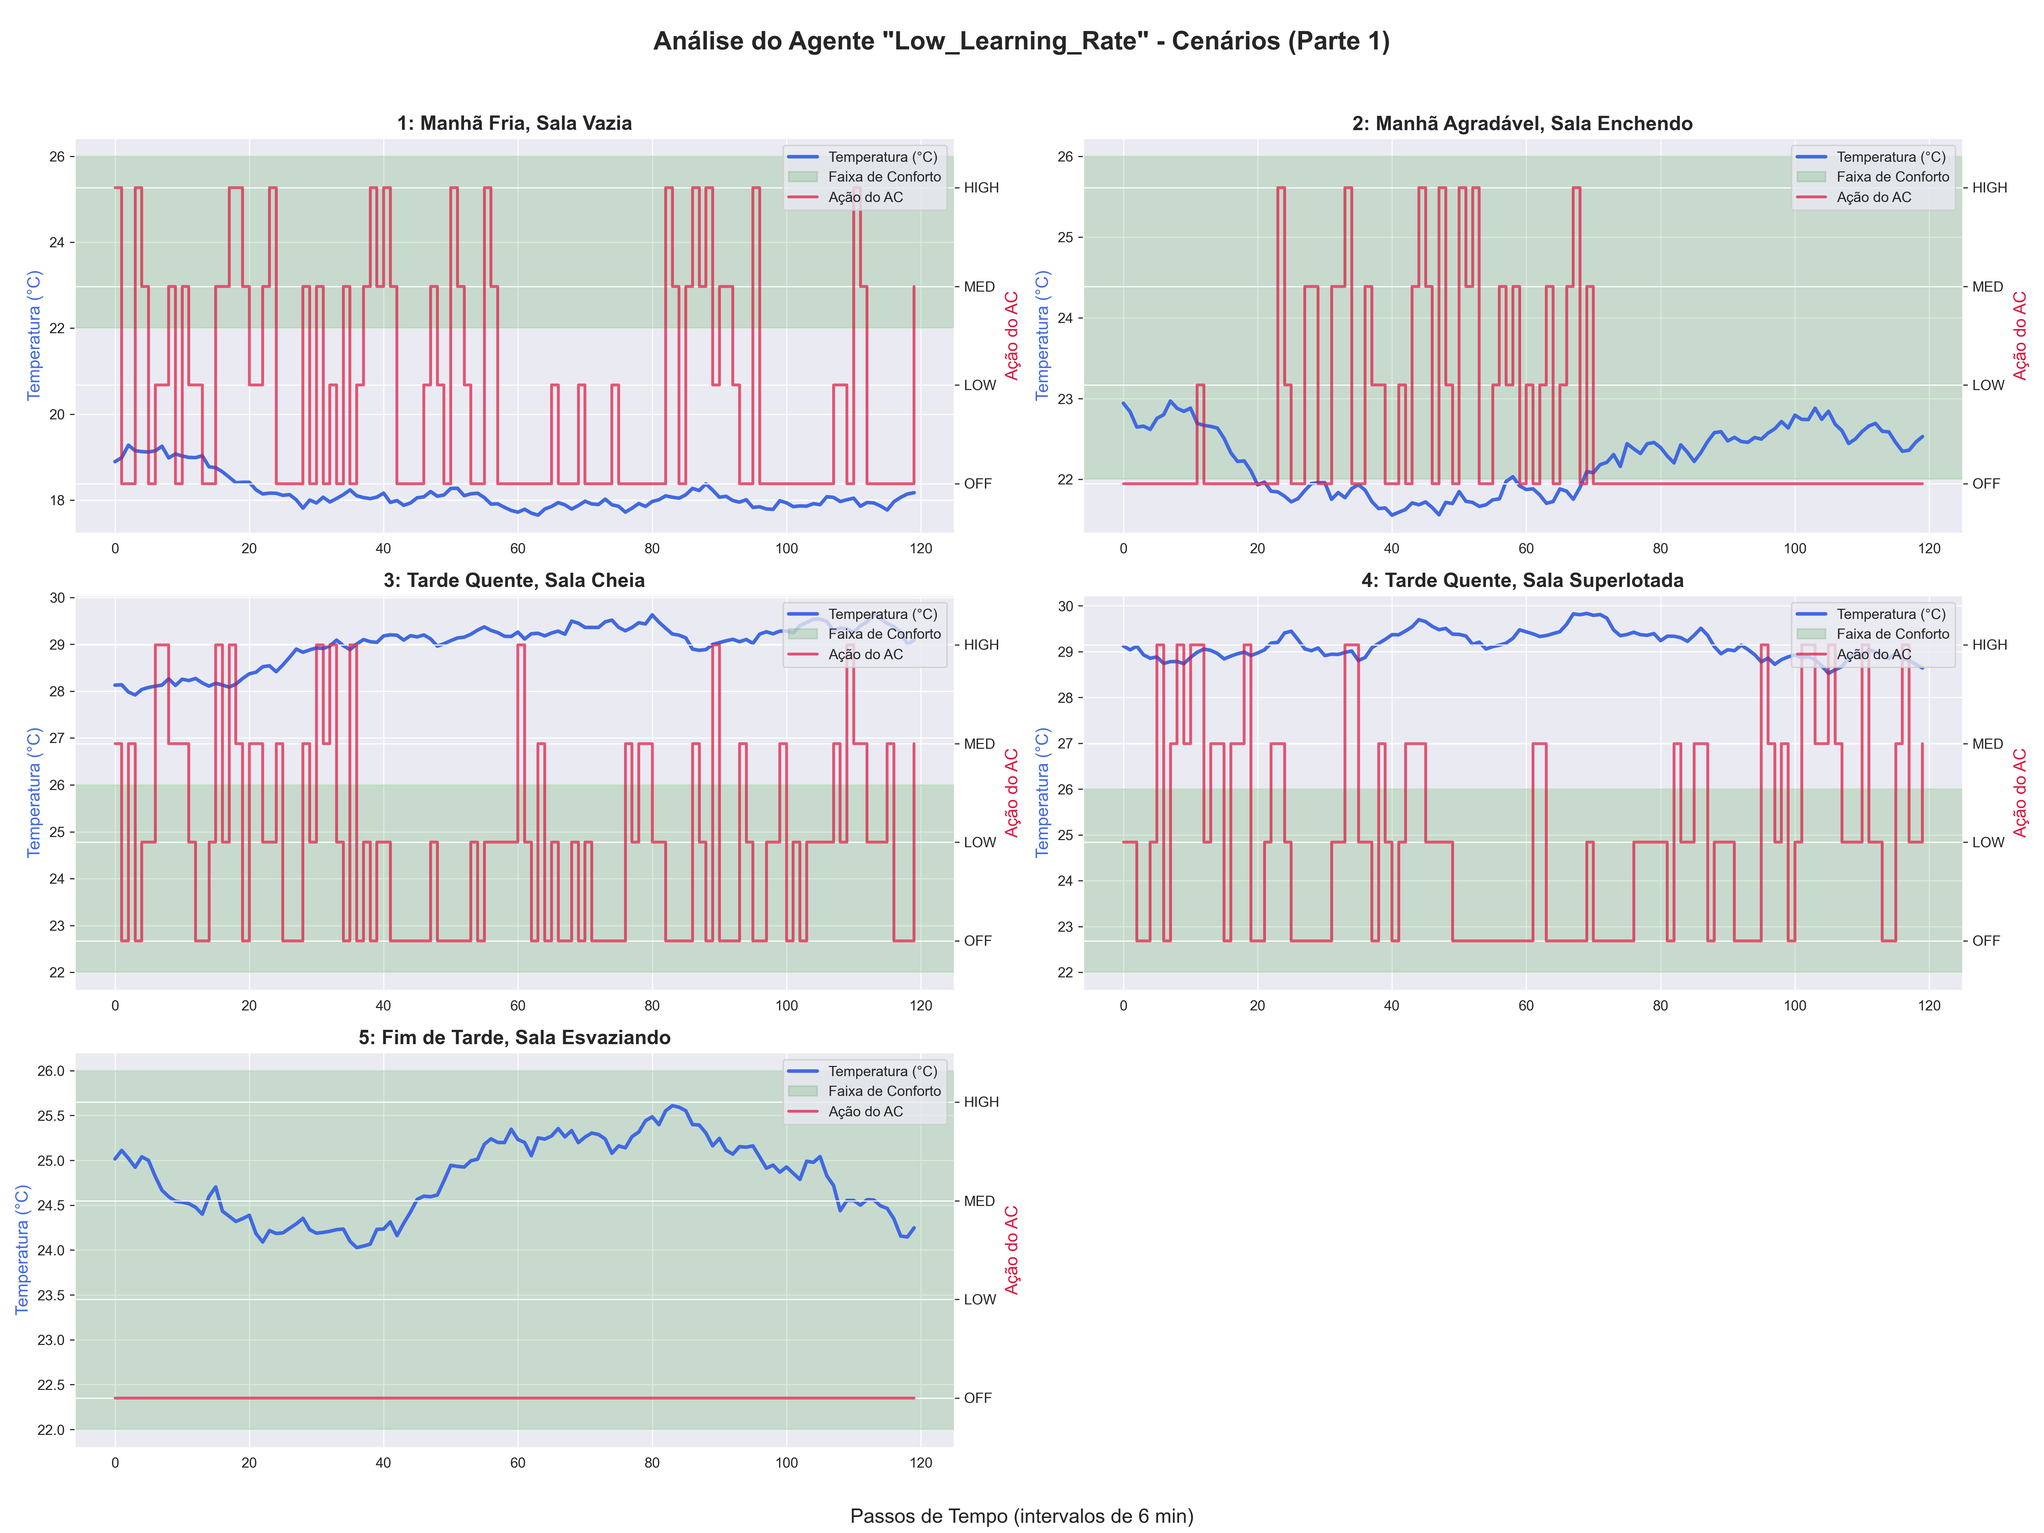
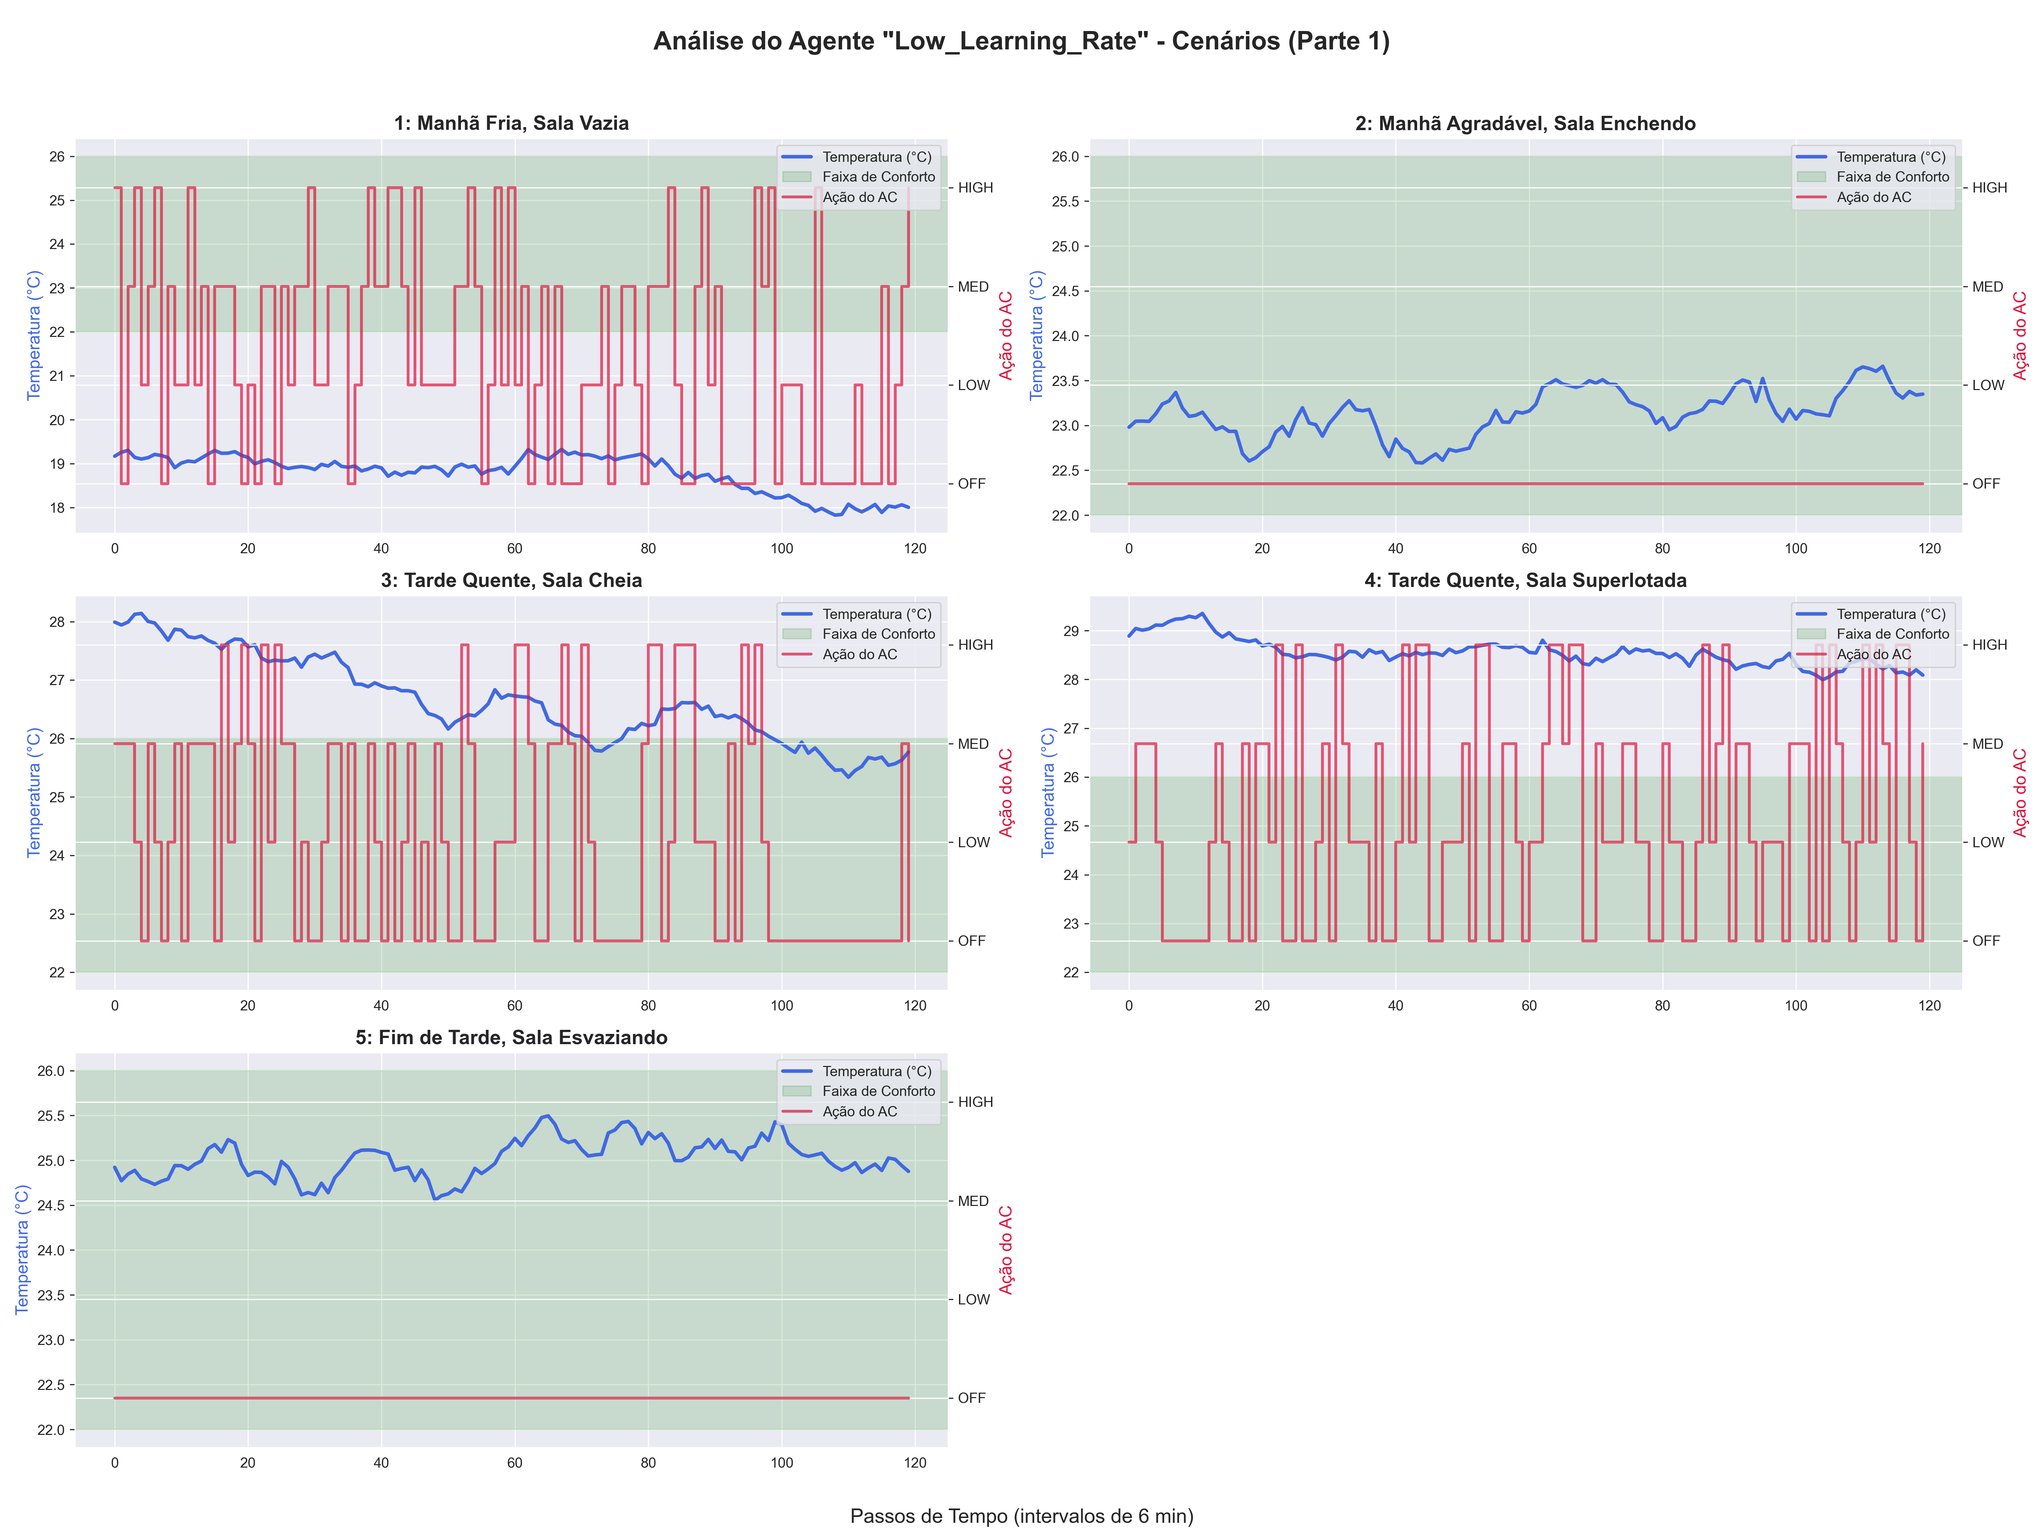
Adicionado graficos tabelas variaveis utilizados

diff --git a/results_20251002_174127/README.md b/results_20251002_174127/README.md
@@ -61,16 +61,16 @@ A imagem abaixo compara o desempenho final de todos os agentes durante a fase de
 
 | Cenário                                         |   Temp. Média (°C) |   Tempo em Conforto (%) |   Energia Total (kW) |   Recompensa Média | Ação Predominante   |
 |:------------------------------------------------|-------------------:|------------------------:|---------------------:|-------------------:|:--------------------|
-| 1: Manhã Fria, Sala Vazia                       |              18.16 |                    0    |                113.5 |              -9.78 | OFF                 |
-| 2: Manhã Agradável, Sala Enchendo               |              22.12 |                   71.67 |                223   |              -2.27 | OFF                 |
-| 3: Tarde Quente, Sala Cheia                     |              27.13 |                    0    |                318.5 |              -6.83 | MED                 |
-| 4: Tarde Quente, Sala Superlotada               |              29.28 |                    0    |                196   |              -7.11 | LOW                 |
-| 5: Fim de Tarde, Sala Esvaziando                |              25.16 |                  100    |                157.5 |              -0.26 | OFF                 |
-| 6: Noite, Sala Vazia                            |              24.5  |                  100    |                 30   |               0.62 | OFF                 |
-| 7: Tarde Agradável, Sala Vazia (Manutenção)     |              25.2  |                   77.5  |                137   |              -1.33 | OFF                 |
-| 8: Onda de Calor Extrema, Sala Cheia (Estresse) |              32.09 |                    0    |                  0   |             -15    | OFF                 |
-| 9: Fim de Expediente (Eficiência Energética)    |              25.18 |                  100    |                165.5 |              -0.24 | OFF                 |
-| 10: Inverno Hipotético (Caso de Borda/Inação)   |              11.49 |                    0    |                  0   |             -15    | OFF                 |
+| 1: Manhã Fria, Sala Vazia                       |              19.8  |                    0    |                283.5 |              -6.67 | MED                 |
+| 2: Manhã Agradável, Sala Enchendo               |              23.22 |                  100    |                 32   |               0.62 | OFF                 |
+| 3: Tarde Quente, Sala Cheia                     |              28.42 |                    0    |                302.5 |              -6.77 | MED                 |
+| 4: Tarde Quente, Sala Superlotada               |              28.83 |                    0    |                263.5 |              -6.64 | OFF                 |
+| 5: Fim de Tarde, Sala Esvaziando                |              24.42 |                  100    |                 55.5 |               0.47 | OFF                 |
+| 6: Noite, Sala Vazia                            |              22.94 |                   76.67 |                132   |              -1.23 | OFF                 |
+| 7: Tarde Agradável, Sala Vazia (Manutenção)     |              24.32 |                  100    |                 23   |               0.61 | OFF                 |
+| 8: Onda de Calor Extrema, Sala Cheia (Estresse) |              32.38 |                    0    |                  0   |             -15    | OFF                 |
+| 9: Fim de Expediente (Eficiência Energética)    |              26.39 |                   27.5  |                259.5 |              -4.98 | OFF                 |
+| 10: Inverno Hipotético (Caso de Borda/Inação)   |              12.43 |                    0    |                  0   |             -15    | OFF                 |
 
 ### 3. Gráficos de Comportamento em Cenários
 
@@ -128,16 +128,16 @@ A imagem abaixo compara o desempenho final de todos os agentes durante a fase de
 
 | Cenário                                         |   Temp. Média (°C) |   Tempo em Conforto (%) |   Energia Total (kW) |   Recompensa Média | Ação Predominante   |
 |:------------------------------------------------|-------------------:|------------------------:|---------------------:|-------------------:|:--------------------|
-| 1: Manhã Fria, Sala Vazia                       |              18.19 |                       0 |                126   |             -10.35 | OFF                 |
-| 2: Manhã Agradável, Sala Enchendo               |              24.23 |                     100 |                 49   |               0.48 | OFF                 |
-| 3: Tarde Quente, Sala Cheia                     |              27.74 |                       0 |                272   |              -6.78 | OFF                 |
-| 4: Tarde Quente, Sala Superlotada               |              29.37 |                       0 |                207.5 |              -6.67 | OFF                 |
-| 5: Fim de Tarde, Sala Esvaziando                |              24.82 |                     100 |                119   |              -0.02 | OFF                 |
-| 6: Noite, Sala Vazia                            |              24.03 |                     100 |                 39   |               0.53 | OFF                 |
-| 7: Tarde Agradável, Sala Vazia (Manutenção)     |              24.3  |                     100 |                 21.5 |               0.75 | OFF                 |
-| 8: Onda de Calor Extrema, Sala Cheia (Estresse) |              31.31 |                       0 |                  0   |             -15    | OFF                 |
-| 9: Fim de Expediente (Eficiência Energética)    |              25.37 |                      95 |                162.5 |              -0.67 | OFF                 |
-| 10: Inverno Hipotético (Caso de Borda/Inação)   |              11.58 |                       0 |                  0   |             -15    | OFF                 |
+| 1: Manhã Fria, Sala Vazia                       |              18.95 |                    0    |                255.5 |              -6.75 | OFF                 |
+| 2: Manhã Agradável, Sala Enchendo               |              22.55 |                   85.83 |                 64   |              -0.59 | OFF                 |
+| 3: Tarde Quente, Sala Cheia                     |              28.36 |                    0    |                290.5 |              -6.94 | HIGH                |
+| 4: Tarde Quente, Sala Superlotada               |              28.61 |                    0    |                287.5 |              -6.66 | MED                 |
+| 5: Fim de Tarde, Sala Esvaziando                |              24.08 |                  100    |                 35   |               0.69 | OFF                 |
+| 6: Noite, Sala Vazia                            |              24.41 |                  100    |                 35   |               0.65 | OFF                 |
+| 7: Tarde Agradável, Sala Vazia (Manutenção)     |              24.21 |                  100    |                 56   |               0.45 | OFF                 |
+| 8: Onda de Calor Extrema, Sala Cheia (Estresse) |              32.86 |                    0    |                  0   |             -15    | OFF                 |
+| 9: Fim de Expediente (Eficiência Energética)    |              25.18 |                  100    |                146   |              -0.17 | OFF                 |
+| 10: Inverno Hipotético (Caso de Borda/Inação)   |              12.97 |                    0    |                  0   |             -15    | OFF                 |
 
 ### 3. Gráficos de Comportamento em Cenários
 
@@ -195,16 +195,16 @@ A imagem abaixo compara o desempenho final de todos os agentes durante a fase de
 
 | Cenário                                         |   Temp. Média (°C) |   Tempo em Conforto (%) |   Energia Total (kW) |   Recompensa Média | Ação Predominante   |
 |:------------------------------------------------|-------------------:|------------------------:|---------------------:|-------------------:|:--------------------|
-| 1: Manhã Fria, Sala Vazia                       |              19.33 |                    0    |                268.5 |              -6.62 | MED                 |
-| 2: Manhã Agradável, Sala Enchendo               |              22.78 |                   95.83 |                156.5 |              -0.33 | OFF                 |
-| 3: Tarde Quente, Sala Cheia                     |              28.02 |                    0    |                286   |              -6.76 | MED                 |
-| 4: Tarde Quente, Sala Superlotada               |              29.91 |                    0    |                125   |              -9.72 | OFF                 |
-| 5: Fim de Tarde, Sala Esvaziando                |              23.85 |                  100    |                 28.5 |               0.68 | OFF                 |
-| 6: Noite, Sala Vazia                            |              23.29 |                  100    |                 98.5 |               0.18 | OFF                 |
-| 7: Tarde Agradável, Sala Vazia (Manutenção)     |              24.08 |                  100    |                 17   |               0.82 | OFF                 |
-| 8: Onda de Calor Extrema, Sala Cheia (Estresse) |              31.6  |                    0    |                  0   |             -15    | OFF                 |
-| 9: Fim de Expediente (Eficiência Energética)    |              25.86 |                   66.67 |                279.5 |              -2.75 | OFF                 |
-| 10: Inverno Hipotético (Caso de Borda/Inação)   |              12.61 |                    0    |                  0   |             -15    | OFF                 |
+| 1: Manhã Fria, Sala Vazia                       |              19.02 |                       0 |                257   |              -6.66 | LOW                 |
+| 2: Manhã Agradável, Sala Enchendo               |              23.15 |                     100 |                134.5 |               0.09 | OFF                 |
+| 3: Tarde Quente, Sala Cheia                     |              28.49 |                       0 |                308.5 |              -6.69 | HIGH                |
+| 4: Tarde Quente, Sala Superlotada               |              29.53 |                       0 |                181.5 |              -6.9  | LOW                 |
+| 5: Fim de Tarde, Sala Esvaziando                |              25.16 |                     100 |                213   |              -0.34 | OFF                 |
+| 6: Noite, Sala Vazia                            |              24.99 |                     100 |                175.5 |              -0.13 | OFF                 |
+| 7: Tarde Agradável, Sala Vazia (Manutenção)     |              24.67 |                     100 |                 73.5 |               0.47 | OFF                 |
+| 8: Onda de Calor Extrema, Sala Cheia (Estresse) |              30.81 |                       0 |                 54.5 |             -13.5  | OFF                 |
+| 9: Fim de Expediente (Eficiência Energética)    |              24.89 |                     100 |                134   |               0.17 | OFF                 |
+| 10: Inverno Hipotético (Caso de Borda/Inação)   |              11.79 |                       0 |                  0   |             -15    | OFF                 |
 
 ### 3. Gráficos de Comportamento em Cenários
 
@@ -262,16 +262,16 @@ A imagem abaixo compara o desempenho final de todos os agentes durante a fase de
 
 | Cenário                                         |   Temp. Média (°C) |   Tempo em Conforto (%) |   Energia Total (kW) |   Recompensa Média | Ação Predominante   |
 |:------------------------------------------------|-------------------:|------------------------:|---------------------:|-------------------:|:--------------------|
-| 1: Manhã Fria, Sala Vazia                       |              18.15 |                    0    |                166   |             -10.54 | OFF                 |
-| 2: Manhã Agradável, Sala Enchendo               |              22.23 |                   60    |                 90.5 |              -2.18 | OFF                 |
-| 3: Tarde Quente, Sala Cheia                     |              29    |                    0    |                177.5 |              -6.4  | OFF                 |
-| 4: Tarde Quente, Sala Superlotada               |              29.14 |                    0    |                191   |              -6.16 | OFF                 |
-| 5: Fim de Tarde, Sala Esvaziando                |              24.79 |                  100    |                  0   |               1    | OFF                 |
-| 6: Noite, Sala Vazia                            |              25.13 |                  100    |                  0   |               1    | OFF                 |
-| 7: Tarde Agradável, Sala Vazia (Manutenção)     |              24.84 |                  100    |                  0   |               1    | OFF                 |
-| 8: Onda de Calor Extrema, Sala Cheia (Estresse) |              32.08 |                    0    |                  0   |             -15    | OFF                 |
-| 9: Fim de Expediente (Eficiência Energética)    |              25.5  |                   71.67 |                 67   |              -1.11 | OFF                 |
-| 10: Inverno Hipotético (Caso de Borda/Inação)   |              11.57 |                    0    |                  0   |             -15    | OFF                 |
+| 1: Manhã Fria, Sala Vazia                       |              18.8  |                    0    |                246   |              -7.36 | MED                 |
+| 2: Manhã Agradável, Sala Enchendo               |              23.14 |                  100    |                  0   |               1    | OFF                 |
+| 3: Tarde Quente, Sala Cheia                     |              26.66 |                   22.5  |                197   |              -5.01 | OFF                 |
+| 4: Tarde Quente, Sala Superlotada               |              28.55 |                    0    |                235   |              -6.55 | OFF                 |
+| 5: Fim de Tarde, Sala Esvaziando                |              25.02 |                  100    |                  0   |               1    | OFF                 |
+| 6: Noite, Sala Vazia                            |              24.63 |                  100    |                  3   |               0.96 | OFF                 |
+| 7: Tarde Agradável, Sala Vazia (Manutenção)     |              24.63 |                  100    |                  0   |               1    | OFF                 |
+| 8: Onda de Calor Extrema, Sala Cheia (Estresse) |              31.29 |                    0    |                 16.5 |             -15.21 | OFF                 |
+| 9: Fim de Expediente (Eficiência Energética)    |              26.06 |                   35.83 |                180   |              -3.87 | OFF                 |
+| 10: Inverno Hipotético (Caso de Borda/Inação)   |              11.51 |                    0    |                  0   |             -15    | OFF                 |
 
 ### 3. Gráficos de Comportamento em Cenários
 
